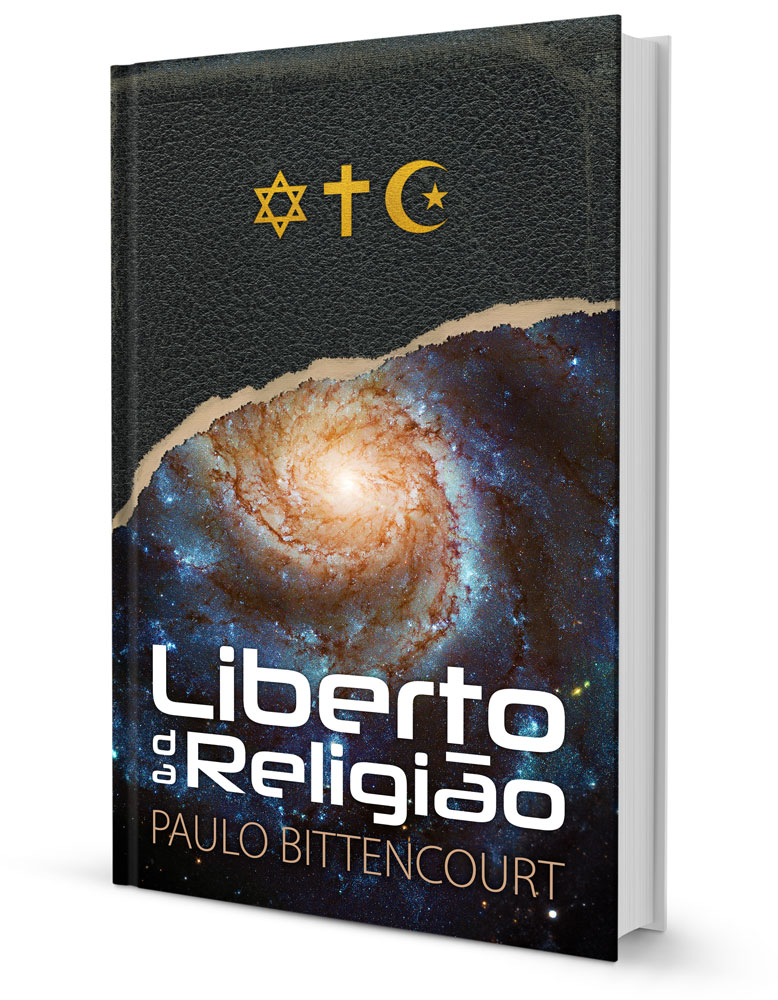
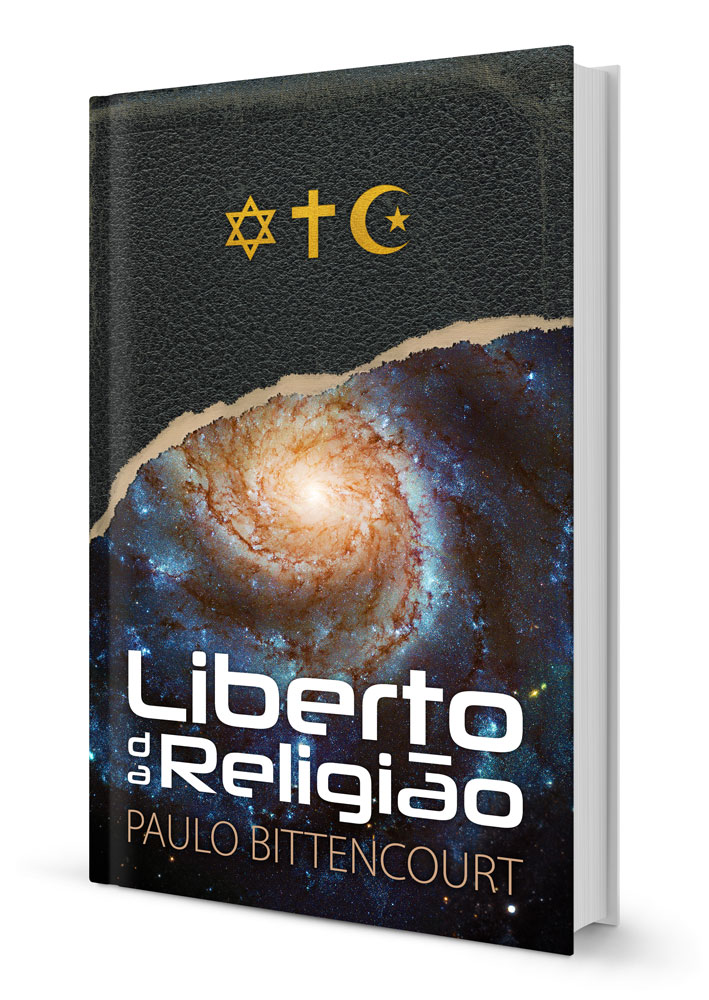
Add files via upload

diff --git a/styles.css b/styles.css
@@ -54,7 +54,7 @@ a
 }
 
 .below-copyright { margin-top: 22px; }
-.below-covers { margin-top: -10px; }
+.below-covers { margin-top: -14px; }
 .below-h1 { margin-top: -6px; }
 .below-h5 { margin-top: -13px; }
 
@@ -111,7 +111,7 @@ cite { font-style: normal; }
 .covers
 {
 	border-radius: 2px;
-	margin-top: -38px;
+	margin-top: -51px;
 	width: 40%;
 }
 
@@ -423,8 +423,14 @@ ul, ol { margin-left: -19px; }
 		text-align: initial;
 	}
 
-	.below-covers { margin-top: -8px; }
-	.covers { width: 55%; }
+	.below-covers { margin-top: -11px; }
+
+	.covers
+	{
+		margin-top: -48px;
+		width: 55%;
+	}
+
 	.index-links { margin-top: 24px; }
 
 	.index-links h5
